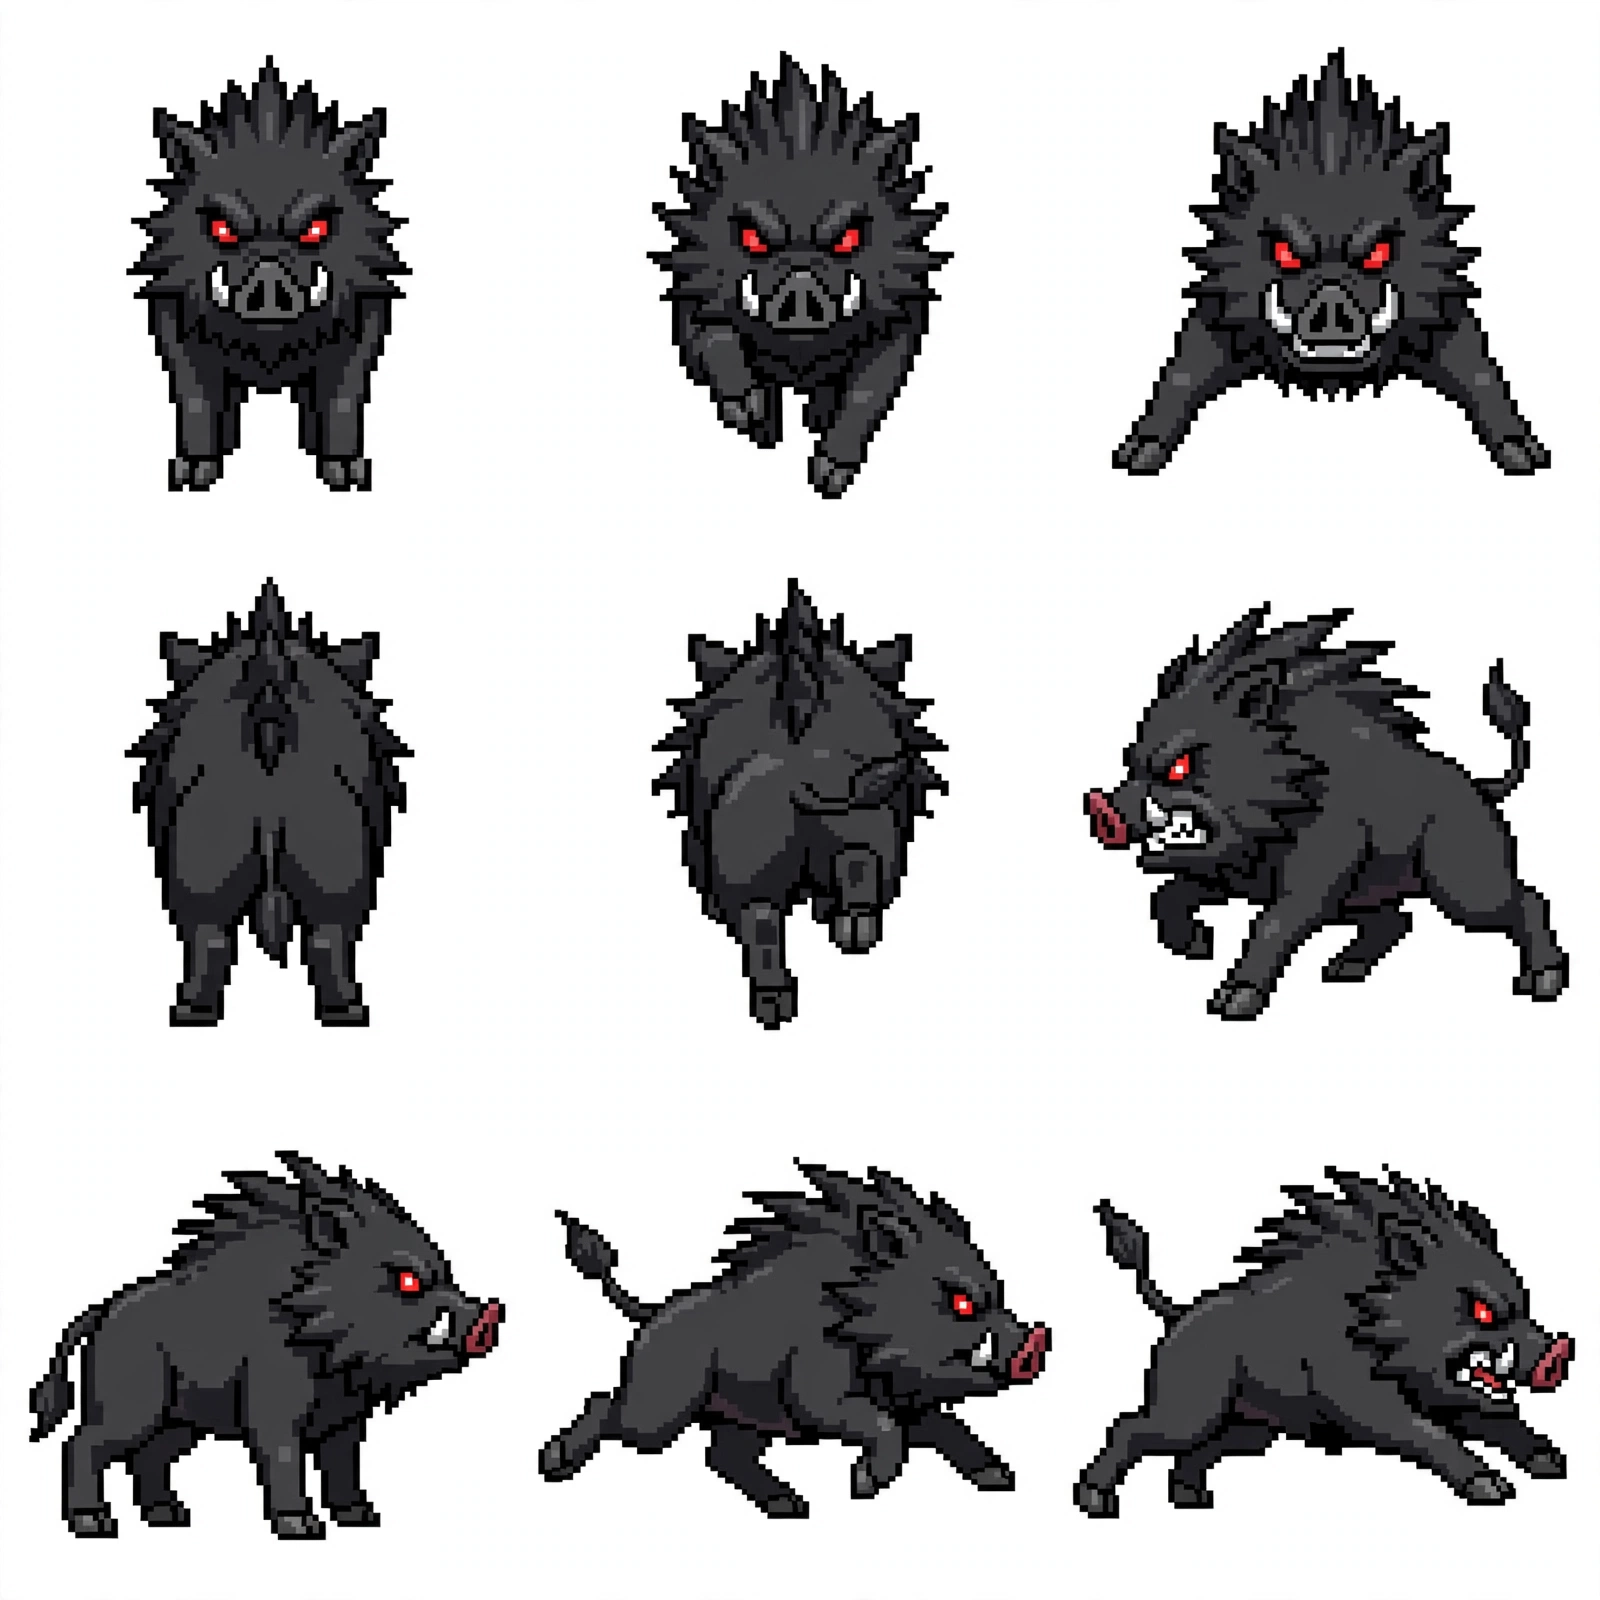
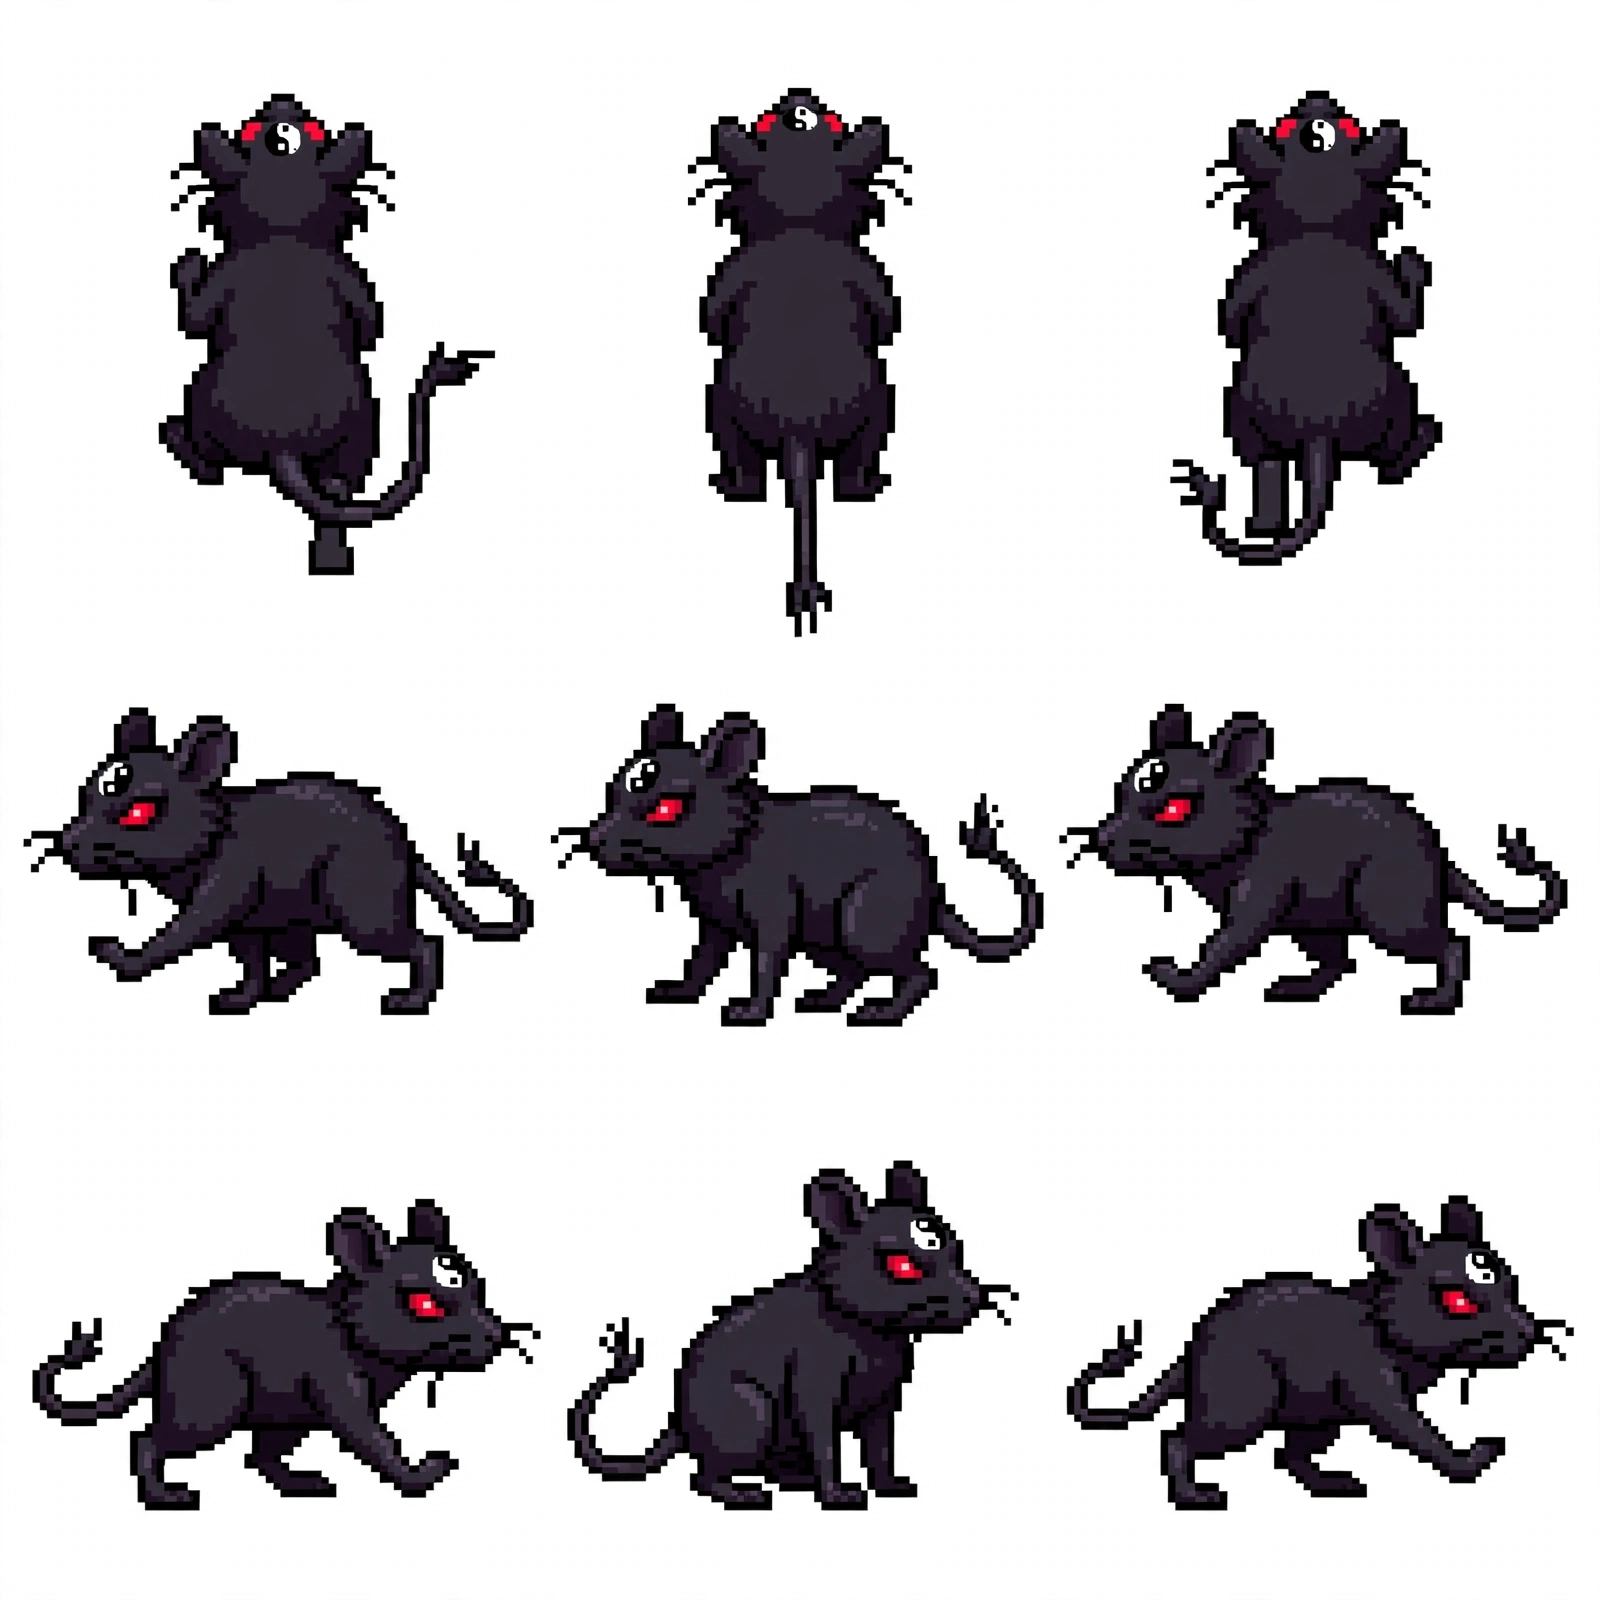
Ve lai sprite quai: Hac Mao Thu dung chuot, them Bao/ Loi Kiep Thu/ Lao Yeu

diff --git a/public/js/game.js b/public/js/game.js
@@ -55,8 +55,9 @@ const SFX = {
 // ---------- Load assets ----------
 const IMG = {};
 const KEYED = new Set(['walk', 'attack', 'cast', 'walk_nu', 'attack_nu', 'cast_nu', 'm_hac', 'm_xa', 'm_lang',
+  'm_bao', 'm_loi', 'm_yeu',
   'npc_ly', 'npc_tran', 'npc_duoc', 'npc_ho', 'm_boss']); // sprite cần tách nền trắng
-const ASSET_V = 'v2'; // version để tránh cache
+const ASSET_V = 'v3'; // version để tránh cache
 function loadImg(key, src) { return new Promise(res => { const i = new Image(); i.onload = () => res(IMG[key] = KEYED.has(key) ? keyOutWhite(i) : i); i.onerror = () => res(null); i.src = src + '?v=' + ASSET_V; }); }
 // Tách nền trắng: flood-fill từ viền ảnh, chỉ xóa trắng liền với viền (không ăn vào áo trắng nhân vật)
 function keyOutWhite(img) {
@@ -88,6 +89,7 @@ const ASSETS = [
   ['walk', 'assets/nvc-walk.webp'], ['attack', 'assets/nvc-attack.webp'], ['cast', 'assets/nvc-cast.webp'],
   ['walk_nu', 'assets/nvc-nu-walk.webp'], ['attack_nu', 'assets/nvc-nu-attack.webp'], ['cast_nu', 'assets/nvc-nu-cast.webp'],
   ['m_hac', 'assets/mob-hac-mao-thu.webp'], ['m_xa', 'assets/mob-thanh-truc-xa.webp'], ['m_lang', 'assets/mob-da-hoa-lang.webp'],
+  ['m_bao', 'assets/mob-hac-phong-bao.webp'], ['m_loi', 'assets/mob-loi-kiep-thu.webp'], ['m_yeu', 'assets/mob-hac-phong-lao-yeu.webp'],
   ['npc_ly', 'assets/npc-chap-su-ly.webp'], ['npc_tran', 'assets/npc-lao-tran.webp'],
   ['npc_duoc', 'assets/npc-duoc-tran-tu.webp'], ['npc_ho', 'assets/npc-tieu-ho.webp'],
   ['m_boss', 'assets/mob-thiet-bi-da-tru.webp'],
@@ -102,9 +104,9 @@ const NPC_PORTRAIT = { 'chap-su-ly': 'assets/npc-chap-su-ly.webp', 'lao-tran': '
 const IT_EMOJI = { 'la': '🍂', 'linh-thao': '🌿', 'linh-thao-heo': '🥀', 'gieng': '⛲' };
 const ICONS = { 'linh-kiem-tram':'icon-linh-kiem-tram.webp','cuu-loi-kiem':'icon-cuu-loi-kiem.webp','phan-thien-kiem':'icon-phan-thien-kiem.webp','van-kiem-quy-tong':'icon-van-kiem-quy-tong.webp','hon-don-kim-chung':'icon-hon-don-kim-chung.webp','khai-thien-nhat-kiem':'icon-khai-thien-nhat-kiem.webp' };
 const MOB_IMG = { 'hac-mao-thu':'m_hac', 'thanh-truc-xa':'m_xa', 'da-hoa-lang':'m_lang', 'thiet-bi-da-tru':'m_boss',
-  'am-anh-thu':'m_hac', 'hac-phong-bao':'m_lang', 'hac-phong-lao-yeu':'m_boss', 'loi-kiep-thu':'m_boss',
-  'co-dia-thu':'m_lang', 'linh-mach-yeu':'m_boss', 'u-minh-quy':'m_hac', 'minh-ha-cot':'m_boss',
-  'kiem-khi-linh':'m_lang', 'thien-kiem-thu':'m_boss' };
+  'am-anh-thu':'m_hac', 'hac-phong-bao':'m_bao', 'hac-phong-lao-yeu':'m_yeu', 'loi-kiep-thu':'m_loi',
+  'co-dia-thu':'m_bao', 'linh-mach-yeu':'m_loi', 'u-minh-quy':'m_hac', 'minh-ha-cot':'m_yeu',
+  'kiem-khi-linh':'m_loi', 'thien-kiem-thu':'m_bao' };
 const SKILL_NAMES = { 'linh-kiem-tram':'Linh Kiếm Trảm','cuu-loi-kiem':'Cửu Lôi Kiếm Quyết','phan-thien-kiem':'Phần Thiên Kiếm','van-kiem-quy-tong':'Vạn Kiếm Quy Tông','hon-don-kim-chung':'Hỗn Độn Kim Chung','khai-thien-nhat-kiem':'Khai Thiên Nhất Kiếm' };
 // P3: bậc + Đường (server gửi id, client dịch tên)
 const RANKS = { 'tap-vu':'Tạp Vụ','ngoai-mon':'Ngoại Môn','noi-mon':'Nội Môn','hac-tam':'Hạch Tâm','chan-truyen':'Chân Truyền','thien-kieu':'Thiên Kiêu' };
